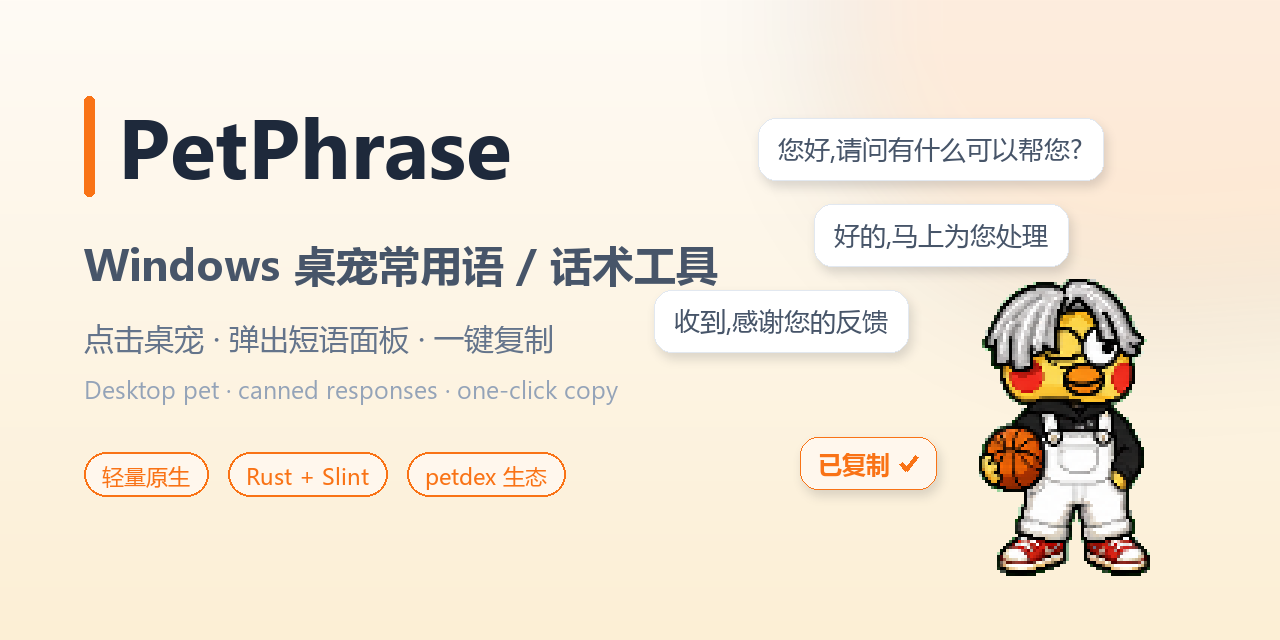
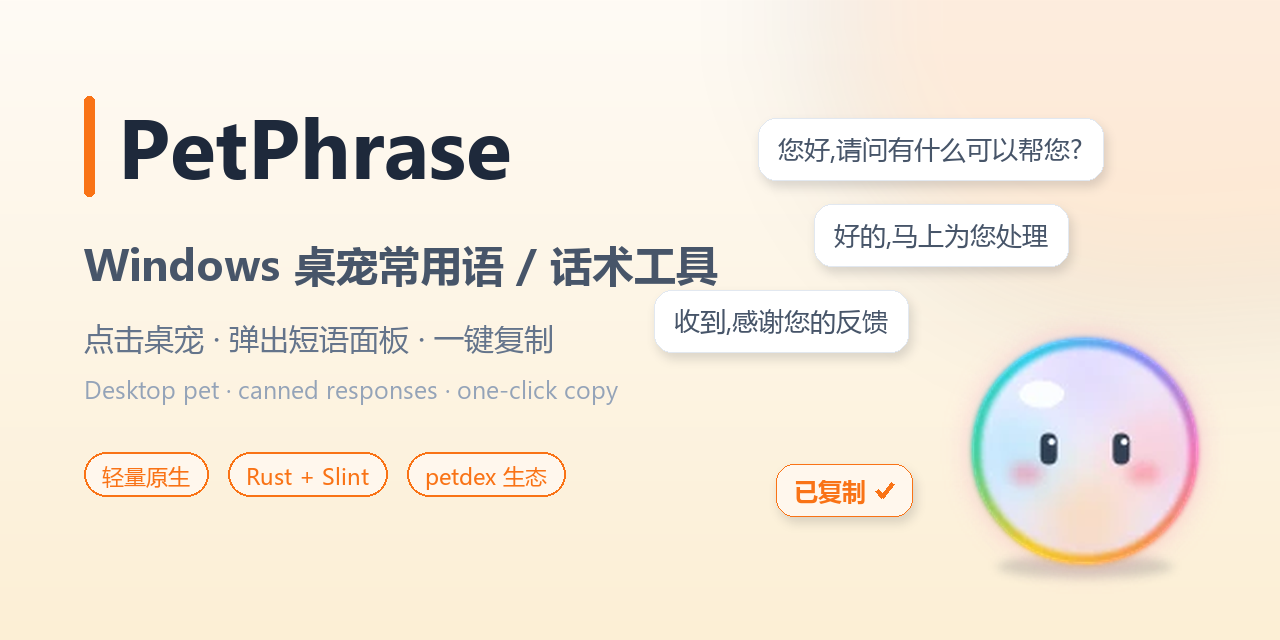
chore: 0.8.0 版本号与 README/截图更新 (#17)
* chore: 版本号 0.8.0;README 与截图更新到新版

- Cargo.toml / installer.nsi 版本号 0.8.0(build.rs 校验两处一致)
- 截图换成新默认宠与 0.8 界面(示例数据,无真实常用语)
- README 功能清单补:内置默认宠、已安装桌宠可删除、托盘/任务栏二选一;主题已移到「通用」,桌宠截图说明去掉「换主题」
- 社交分享图改用内置默认宠 idle 首帧(gen_social_preview.py 直接读 spritesheet.webp)

* docs: README「换一只喜欢的桌宠」配「发现更多」截图,删掉不再引用的示例宠物图

---------

Changed region(s): [[0.75, 0.4375, 0.9375, 0.9062], [0.5938, 0.6875, 0.7188, 0.8125]]

diff --git a/scripts/gen_social_preview.py b/scripts/gen_social_preview.py
@@ -1,6 +1,5 @@
 # 生成 GitHub Social Preview 卡(1280×640,Settings → Social preview 手动上传)
-# 素材:screenshots/pet-desktop.png(白底精灵,四角泛洪抠背景);短语文案为虚构示例
-from collections import deque
+# 素材:app-slint/pets/default/spritesheet.webp(内置默认宠 idle 首帧);短语文案为虚构示例
 from pathlib import Path
 
 from PIL import Image, ImageDraw, ImageFilter, ImageFont
@@ -19,25 +18,12 @@ def font(path, size):
     return ImageFont.truetype(f"C:/Windows/Fonts/{path}", size)
 
 
-def keyed_sprite(path, scale):
-    """白底精灵抠图:仅从四角泛洪连通的背景置透明,保住图案内部白色。"""
-    im = Image.open(path).convert("RGBA")
-    px = im.load()
-    w, h = im.size
-    bg = px[0, 0][:3]
-    seen = set()
-    q = deque([(0, 0), (w - 1, 0), (0, h - 1), (w - 1, h - 1)])
-    while q:
-        x, y = q.popleft()
-        if (x, y) in seen or not (0 <= x < w and 0 <= y < h):
-            continue
-        seen.add((x, y))
-        r, g, b, _ = px[x, y]
-        if abs(r - bg[0]) + abs(g - bg[1]) + abs(b - bg[2]) > 60:
-            continue
-        px[x, y] = (r, g, b, 0)
-        q.extend([(x + 1, y), (x - 1, y), (x, y + 1), (x, y - 1)])
-    return im.resize((w * scale, h * scale), Image.NEAREST)
+def default_pet(scale):
+    """内置默认宠 idle 首帧,裁到不透明包围盒后放大(玻璃泡泡是平滑图,用 LANCZOS 不用最近邻)。"""
+    sheet = Image.open(ROOT / "app-slint" / "pets" / "default" / "spritesheet.webp").convert("RGBA")
+    frame = sheet.crop((0, 0, 192, 208))
+    frame = frame.crop(frame.getbbox())
+    return frame.resize((round(frame.width * scale), round(frame.height * scale)), Image.LANCZOS)
 
 
 card = Image.new("RGBA", (W, H))
@@ -95,8 +81,8 @@ for i, (text, dx) in enumerate([("您好,请问有什么可以帮您?", 0),
     card = bubble([x0, y0, x0 + d.textlength(text, font=bf) + 40, y0 + 62], text, bf)
 d = ImageDraw.Draw(card)
 
-pet = keyed_sprite(ROOT / "screenshots" / "pet-desktop.png", 3)
-px_, py_ = 964, H - pet.height - 46
+pet = default_pet(2.1)
+px_, py_ = 940, H - pet.height - 46
 card.alpha_composite(pet, (px_, py_))
 # 「已复制 ✓」小气泡贴宠(YaHei 无 ✓ 字形,对勾手绘)
 toast = "已复制"

diff --git a/README.md b/README.md
@@ -25,9 +25,9 @@
 
 ## ✨ 它长什么样
 
-| 桌宠静坐桌面 | 点它,面板贴宠弹出 | 挑选桌宠、调大小、换主题 | 管理分组与常用语 |
+| 桌宠静坐桌面 | 点它,面板贴宠弹出 | 挑选桌宠、调大小 | 管理分组与常用语 |
 |:---:|:---:|:---:|:---:|
-| <img src="screenshots/pet-desktop.png" height="180" alt="Windows 桌宠悬浮在桌面上(desktop pet)"> | <img src="screenshots/panel.png" height="180" alt="点击桌宠弹出的常用语快捷复制面板(phrase panel)"> | <img src="screenshots/settings-pets.png" height="180" alt="桌宠选择、大小与主题外观设置"> | <img src="screenshots/settings-phrases.png" height="180" alt="常用语分组与短语管理设置"> |
+| <img src="screenshots/pet-desktop.png" height="180" alt="Windows 桌宠悬浮在桌面上(desktop pet)"> | <img src="screenshots/panel.png" height="180" alt="点击桌宠弹出的常用语快捷复制面板(phrase panel)"> | <img src="screenshots/settings-pets.png" height="180" alt="已安装桌宠选择与大小设置"> | <img src="screenshots/settings-phrases.png" height="180" alt="常用语分组与短语管理设置"> |
 
 ## 🚀 快速上手
 
@@ -40,13 +40,14 @@
 
 ## 🎯 功能
 
-- **桌宠**:透明置顶,按 petdex 标准动作表播放——点击招手、打开面板时等待、编辑时审阅、复制失败时沮丧,闲时随机彩蛋;可拖拽并记住位置,大小三档可调,缩放时脚位不动
-- **在线宠物库**:设置里直接浏览、搜索、一键安装 petdex 上的数千只桌宠
+- **桌宠**:内置七彩玻璃泡泡默认宠;透明置顶,按 petdex 标准动作表播放——点击招手、打开面板时等待、编辑时审阅、复制失败时沮丧,闲时随机彩蛋;可拖拽并记住位置,大小三档可调,缩放时脚位不动
+- **在线宠物库**:设置里直接浏览、搜索、一键安装 petdex 上的数千只桌宠;不想要的在「已安装」里一键删除
 - **常用语面板**:贴宠弹出;分组胶囊 Tab + 全组宫格;短句排成气泡流、长句卡片;搜索跨组过滤;点击复制 + ✓ 反馈 + 自动收起;失焦即隐
 - **📌 面板常驻**:点亮图钉后连续复制多条不收起,拖动桌宠面板实时跟随;再点图钉/点桌宠/Esc 收起
 - **右键就地管理**:面板里右键短语可直接编辑/删除,右键空白处快速添加,弹出即可输入,不用打开设置窗
 - **分组管理**:增删改、长按拖动排序、12 个分组图标
 - **主题**:亚克力磨砂 / 实底浅色两种面板主题
+- **托盘或任务栏**:图标放托盘(左键显示/隐藏宠物,右键菜单)或任务栏(像普通程序一样单击显示/隐藏),设置里二选一
 - **数据**:开机自启可选;JSON 导入导出;数据原子写入 + 启动备份自动恢复,卸载重装不丢
 - **一键更新**:自动/手动检查新版本(可关),一键下载校验并静默升级,装完自动回到桌面
 - **标准安装/卸载**:NSIS 安装包,含 `uninstall.exe` 与「应用和功能」卸载入口,卸载时可选保留数据
@@ -57,9 +58,7 @@ PetPhrase 兼容 [petdex](https://petdex.dev/) 桌宠格式——那个在 X 上
 
 打开 PetPhrase 设置 →「桌宠」→「发现更多」,直接浏览、搜索 petdex 上的全部桌宠,点「安装」即下载并切换,**无需 Node.js、无需重启**。同页右上角可调桌宠大小(小/中/大)。
 
-| `kun-like` | `doraemon` |
-|:---:|:---:|
-| ![爱坤](screenshots/kun-like.png) | ![哆啦A梦](screenshots/doraemon.png) |
+<img src="screenshots/settings-gallery.png" width="560" alt="设置「发现更多」:在线浏览、搜索并一键安装 petdex 桌宠">
 
 习惯命令行也可以用官方 CLI(需要 [Node.js](https://nodejs.org/)),装好的桌宠同样会出现在「已安装」里:
 
